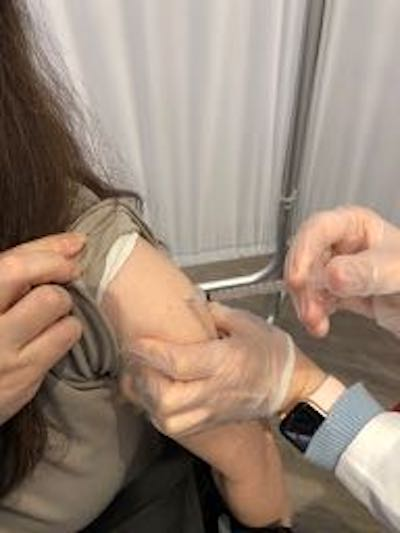
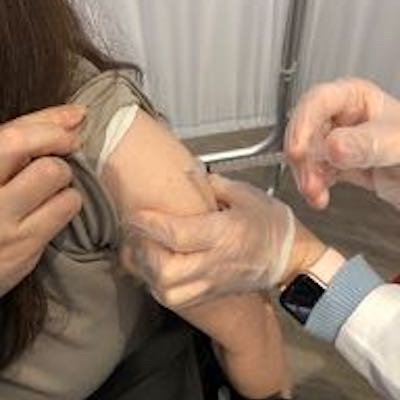
Tweak

diff --git a/_posts/2021-04-21-weekend-editrix-got-shot-again.md b/_posts/2021-04-21-weekend-editrix-got-shot-again.md
@@ -23,7 +23,7 @@ of reason checked the list and let us in.
 Why do people insist their sytems work when _clearly_ the do not?  
 
 <img src="{{ site.baseurl }}/images/2021-04-21-weekend-editrix-got-shot-again-hypo.jpg"
-width="400" height="533" alt="Weekend Editrix's portside dorsal manipulator tentacle being
+width="400" height="400" alt="Weekend Editrix's portside dorsal manipulator tentacle being
 injected (again)" title="Weekend Editrix's portside dorsal manipulator tentacle being
 injected (again)" style="float: right; margin: 3px 3px 3px 3px; border: 1px solid
 #000000;"/>
